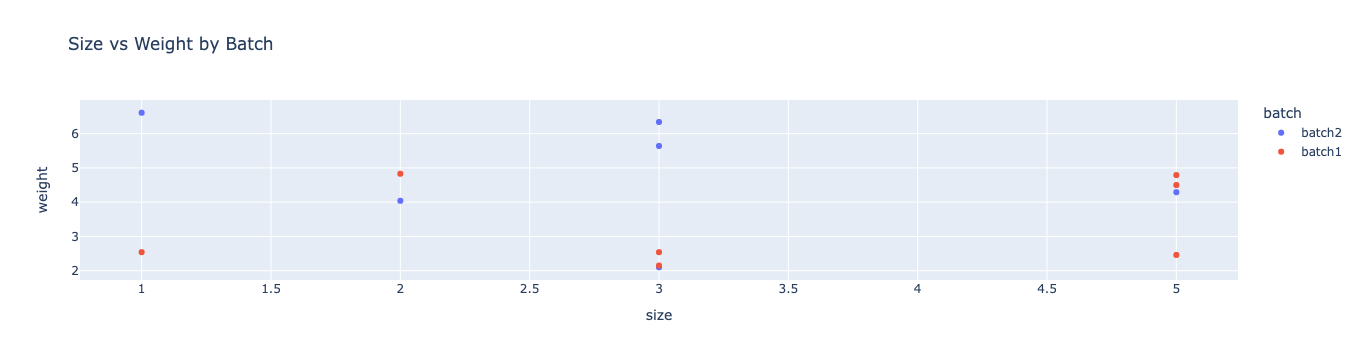
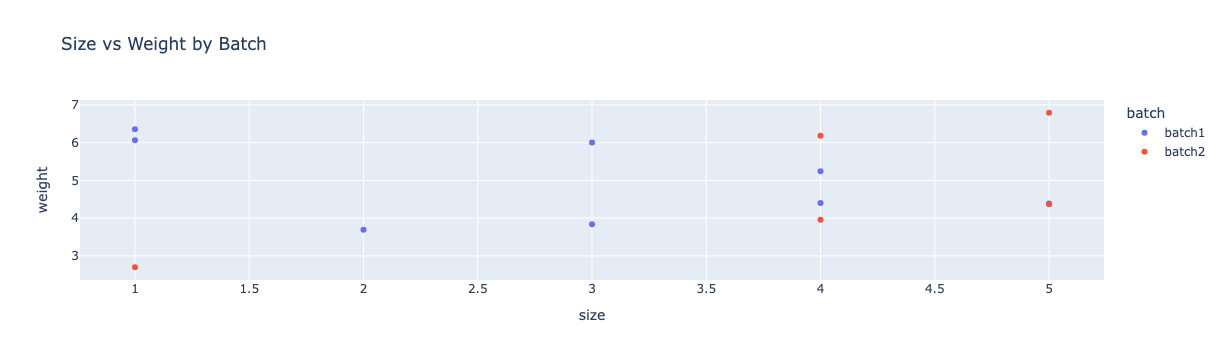
Update the beginner example guide

diff --git a/quickboard/styles.py b/quickboard/styles.py
@@ -37,25 +37,6 @@ TAB_HEADER_STYLE = {
     "text-align": "center"
 }
 
-#### PLOT TABLES
-
-
-PLOT_GROUP_STYLE = {
-    "padding": "10px",
-    "display": "grid",
-    
-    "border-width": "2px",
-    "border-style": "solid",
-    "border-color": "black",
-    
-    "overflow": "auto"
-}
-
-PLOT_GROUP_HEADER_STYLE = {
-    "text-align": "center"
-}
-
-
 CONTENT_GRID_STYLE = {
     "padding": "10px",
     "display": "grid",
@@ -85,74 +66,4 @@ PANEL_STYLE = {
     "border-color": "black",
 
     "width": "100%"
-}
-
-
-#### PLOT STYLES
-
-PLOT_FRAME_STYLE = {
-    "padding": "10px",
-    
-    "border-width": "2px",
-    "border-style": "solid",
-    "border-color": "black",
-}
-
-PLOT_FRAME_HEADER_STYLE = {
-    "text-align": "center"
-}
-
-
-CHECKLIST_STYLE = {
-    "padding": "10px",
-    
-    "border-width": "1px",
-    "border-style": "solid",
-    "border-color": "black",
-    
-    "width": "200px",
-    "height": "150px"
-}
-
-
-
-#### CONTROL STYLES
-
-CONTROL_FRAME_STYLE = {
-    "padding": "10px",
-    
-    "border-width": "1px",
-    "border-style": "solid",
-    "border-color": "black",
-    
-    # "height": "200px",
-    # "position": "relative"
-}
-
-
-CONTROL_STYLE = {
-    "padding": "5px",
-
-    "border-width": "1px",
-    "border-style": "solid",
-    "border-color": "black"
-}
-
-
-PLOT_CONTROL_STYLE = {
-    "padding": "5px",
-    
-    "border-width": "1px",
-    "border-style": "solid",
-    "border-color": "black",
-}
-
-
-# Delete after refactor
-CONTROL_OBJECT_STYLE = {
-    "padding": "5px",
-
-    "border-width": "1px",
-    "border-style": "solid",
-    "border-color": "black"
 }

diff --git a/docs/beginner_example.md b/docs/beginner_example.md
@@ -1,10 +1,12 @@
 ## Guided Example
 
+> Last Updated: v0.4.0
+
 This is a beginner's guide to creating a larger scale app than the examples shown in the 
 [Component Gallery](component_gallery.md). To demonstrate how to use the Quickboard components together, let's work 
 through a simple example. We're going to recreate the following board.
 
-![The finished product](images/beginner_example/guide_final.jpg "Look how short the code at the end is for all of this!")
+![The finished product](images/beginner_example/guide_final.png "Look how short the code at the end is for all of this!")
 
 In this guide, we'll run code using a Jupyter notebook. All code blocks should be thought of as cells in the notebook,
 though it should also work fine to gather the main pieces into a `.py` file and run it.
@@ -27,6 +29,8 @@ First we have `data_a.tsv`, generated with:
 import numpy as np
 import pandas as pd
 
+np.random.seed(0)
+
 data_a = pd.DataFrame({'label': ['a', 'b', 'c', 'd', 'e', 'f', 'g', 'h', 'i', 'j', 'k', 'l', 'm']})
 data_a['size'] = np.random.choice(range(1,6), len(data_a))
 data_a['weight'] = 5 * np.random.random(len(data_a)) + 2
@@ -44,45 +48,45 @@ data_b['day'] = np.random.choice(['Mon', 'Wed', 'Fri'], len(data_b))
 data_b['batch'] = np.random.choice(['batch1', 'batch2'], len(data_b))
 ```
 
-Here is what they look like. For `data_a.tsv`:
+Here is what they look like. For `data_a.tsv` (generated using `print(data_a.to_markdown())`:
 
 |    | label   |   size |   weight | day   | batch   |
 |---:|:--------|-------:|---------:|:------|:--------|
-|  0 | a       |      2 |     4.04 | Mon   | batch2  |
-|  1 | b       |      3 |     5.64 | Wed   | batch2  |
-|  2 | c       |      1 |     6.61 | Wed   | batch2  |
-|  3 | d       |      3 |     2.54 | Wed   | batch1  |
-|  4 | e       |      5 |     4.29 | Wed   | batch2  |
-|  5 | f       |      3 |     2.1  | Fri   | batch2  |
-|  6 | g       |      2 |     4.83 | Fri   | batch1  |
-|  7 | h       |      5 |     4.79 | Fri   | batch1  |
-|  8 | i       |      1 |     2.54 | Wed   | batch1  |
-|  9 | j       |      5 |     2.46 | Wed   | batch1  |
-| 10 | k       |      3 |     2.15 | Mon   | batch1  |
-| 11 | l       |      5 |     4.5  | Fri   | batch1  |
-| 12 | m       |      3 |     6.34 | Fri   | batch2  |
+|  0 | a       |      5 |     4.39 | Wed   | batch1  |
+|  1 | b       |      1 |     6.06 | Fri   | batch1  |
+|  2 | c       |      4 |     4.4  | Mon   | batch1  |
+|  3 | d       |      4 |     3.96 | Wed   | batch2  |
+|  4 | e       |      4 |     6.18 | Wed   | batch2  |
+|  5 | f       |      2 |     3.69 | Wed   | batch1  |
+|  6 | g       |      4 |     5.24 | Mon   | batch1  |
+|  7 | h       |      3 |     3.84 | Fri   | batch1  |
+|  8 | i       |      5 |     6.79 | Mon   | batch2  |
+|  9 | j       |      1 |     2.7  | Fri   | batch2  |
+| 10 | k       |      1 |     6.35 | Fri   | batch1  |
+| 11 | l       |      5 |     4.37 | Mon   | batch2  |
+| 12 | m       |      3 |     6    | Fri   | batch1  |
 
 And for `data_b.tsv`:
 
 |    | label   |   size |   measurement | day   | batch   |
 |---:|:--------|-------:|--------------:|:------|:--------|
-|  0 | a       |      9 |       6.22343 | Wed   | batch1  |
-|  1 | b       |      5 |       7.545   | Mon   | batch2  |
-|  2 | c       |      6 |       5.98645 | Fri   | batch1  |
-|  3 | d       |      7 |       8.30217 | Mon   | batch1  |
-|  4 | e       |      7 |       4.88089 | Wed   | batch1  |
-|  5 | f       |      5 |       9.09543 | Fri   | batch1  |
-|  6 | g       |      8 |       5.43039 | Wed   | batch1  |
-|  7 | h       |      9 |       7.51989 | Mon   | batch1  |
-|  8 | i       |      4 |       7.95468 | Mon   | batch2  |
-|  9 | j       |      6 |       6.99687 | Mon   | batch1  |
-| 10 | k       |      7 |       7.94129 | Wed   | batch1  |
-| 11 | l       |      8 |       7.08559 | Fri   | batch2  |
-| 12 | m       |      9 |       6.02301 | Fri   | batch2  |
-| 13 | n       |      9 |       8.57015 | Wed   | batch2  |
-| 14 | o       |      8 |       4.56614 | Mon   | batch2  |
-| 15 | p       |      6 |       7.72713 | Mon   | batch2  |
-| 16 | q       |      8 |       9.6404  | Wed   | batch2  |
+|  0 | a       |      6 |       7.43992 | Mon   | batch1  |
+|  1 | b       |      4 |       9.71264 | Fri   | batch2  |
+|  2 | c       |      5 |       7.56953 | Mon   | batch1  |
+|  3 | d       |      5 |       7.44541 | Wed   | batch2  |
+|  4 | e       |      5 |       9.9671  | Fri   | batch2  |
+|  5 | f       |      5 |       7.07295 | Fri   | batch1  |
+|  6 | g       |      7 |       5.90058 | Wed   | batch1  |
+|  7 | h       |      7 |       6.32288 | Mon   | batch2  |
+|  8 | i       |      6 |       7.36457 | Wed   | batch1  |
+|  9 | j       |      7 |       5.36605 | Wed   | batch2  |
+| 10 | k       |      4 |       7.72327 | Mon   | batch1  |
+| 11 | l       |      7 |       5.22041 | Fri   | batch2  |
+| 12 | m       |      9 |       8.44842 | Fri   | batch1  |
+| 13 | n       |      8 |       9.647   | Fri   | batch2  |
+| 14 | o       |      5 |       7.63769 | Fri   | batch1  |
+| 15 | p       |      6 |       3.095   | Wed   | batch2  |
+| 16 | q       |      8 |       7.35992 | Fri   | batch1  |
 
 Let's visualize some plots using these data sets.
 
@@ -186,7 +190,7 @@ start_app(board, mode="external", port=8050)    # Note: The default port is 8050
 Running this in Jupyter should output a link to `127.0.0.1:8050`. If you click the link, or go to that url in a browser
 after running in a terminal (with the `mode` input removed in that case), you can finally see the board!
 
-![Our first glance at what Quickboard can do!](images/beginner_example/TabA_firstplot.jpg "All tabs are automatically scrollable!")
+![Our first glance at what Quickboard can do!](images/beginner_example/TabA_firstplot.png "All tabs are automatically scrollable!")
 
 There it is! But it's still a lot of overhead for just one plot. Let's try adding some more stuff.
 
@@ -226,7 +230,7 @@ Rerun this code block and the ones following it, and run the `start_app` functio
 (Tip: If you get `Duplicate callback outputs` errors when trying to modify and rerun, try restarting the notebook 
 kernel.)
 
-![That looks better!](images/beginner_example/TabA_secondplot.jpg "That was easy!")
+![That looks better!](images/beginner_example/TabA_secondplot.png "That was easy!")
 
 This example should show some of the power of building up a board with modular components like this. An investment in 
 the higher layer objects makes it very easy to drop in new features. The new hierarchy looks like this:
@@ -280,13 +284,16 @@ TabA = qbb.BaseTab(
 
 Now when you rerun the code, you'll see our plugin on the left.
 
-![Now we've got our first plugin!](images/beginner_example/TabA_sidebarplugin.jpg "Unlimited power!")
+![Now we've got our first plugin!](images/beginner_example/TabA_sidebarplugin.png "Unlimited power!")
 
 Now our board is interactive beyond the usual Plotly capabilities. Try clicking the checklist buttons and watch the
 plots update in real time! Can you see what's happening?
 
 As the name implies, the `DataFilterChecklist` plugin filters the data so that the `day` column is contained in the list
 of selected values. Because we made it a sidebar plugin, this affects all of the plots on the page.
+
+Note the checklist plugin comes with the "All" or "None" toggles for free. This can be turned off using the 
+`toggle_all_button` input to the plugin constructor.
 
 #### Plot Plugins
 
@@ -320,7 +327,7 @@ You can rerun the code and see what appears. There's now a similar checklist bel
 filtering the data, but just for that plot. If you restrict on both the sidebar and the plot plugins, you'll get the
 intersection of both control effects. You can add a similar control to the other plot to make it look a little nicer.
 
-![Added some plot plugins!](images/beginner_example/TabA_plotplugins.jpg "Not enough days in the week...")
+![Added some plot plugins!](images/beginner_example/TabA_plotplugins.png "Not enough days in the week...")
 
 Our hierarchy now looks like:
 ```
@@ -371,7 +378,7 @@ LabelBarPlot = qbb.PlotPanel(
 
 If the code looks like it's getting a little messy, we can always refactor with something like:
 ```
-myplg = plg.DataFilterChecklist(...)    # But make sure all of the id's are valid!
+myplg = plg.DataFilterChecklist(...)
 ...
     plugins=[
         myplg, ...
@@ -381,7 +388,7 @@ myplg = plg.DataFilterChecklist(...)    # But make sure all of the id's are vali
 
 Let's add it to our code and see what we get.
 
-![We've got radio buttons!](images/beginner_example/TabA_radioplugin.jpg "How many possible plots can we make now by just clicking?")
+![We've got radio buttons!](images/beginner_example/TabA_radioplugin.png "How many possible plots can we make now by just clicking?")
 
 Now we can toggle between seeing `size` and `weight` on the y-axis with the click of a button! 
 
@@ -436,7 +443,7 @@ Here is what the hierarchy looks like at the very end:
 |    ├─ BaseTab (B)
 ```
 
-Here is the final code in full:
+Here is the final code in full you can run from start to finish:
 ```
 import plotly.express as px
 
@@ -444,6 +451,21 @@ import quickboard.base as qbb
 import quickboard.plugins as plg
 from quickboard.app import start_app
 
+
+np.random.seed(0)
+
+data_a = pd.DataFrame({'label': ['a', 'b', 'c', 'd', 'e', 'f', 'g', 'h', 'i', 'j', 'k', 'l', 'm']})
+data_a['size'] = np.random.choice(range(1,6), len(data_a))
+data_a['weight'] = 5 * np.random.random(len(data_a)) + 2
+data_a['weight'] = data_a['weight'].apply(lambda x: round(x, 2))
+data_a['day'] = np.random.choice(['Mon', 'Wed', 'Fri'], len(data_a))
+data_a['batch'] = np.random.choice(['batch1', 'batch2'], len(data_a))
+
+data_b = pd.DataFrame({'label': ['a', 'b', 'c', 'd', 'e', 'f', 'g', 'h', 'i', 'j', 'k', 'l', 'm', 'n', 'o', 'p', 'q']})
+data_b['size'] = np.random.choice(range(4,10), len(data_b))
+data_b['measurement'] = 7 * np.random.random(len(data_b)) + 3
+data_b['day'] = np.random.choice(['Mon', 'Wed', 'Fri'], len(data_b))
+data_b['batch'] = np.random.choice(['batch1', 'batch2'], len(data_b))
 
 SizeWeightPlot = qbb.PlotPanel(
     header='My Demo Scatterplot',
